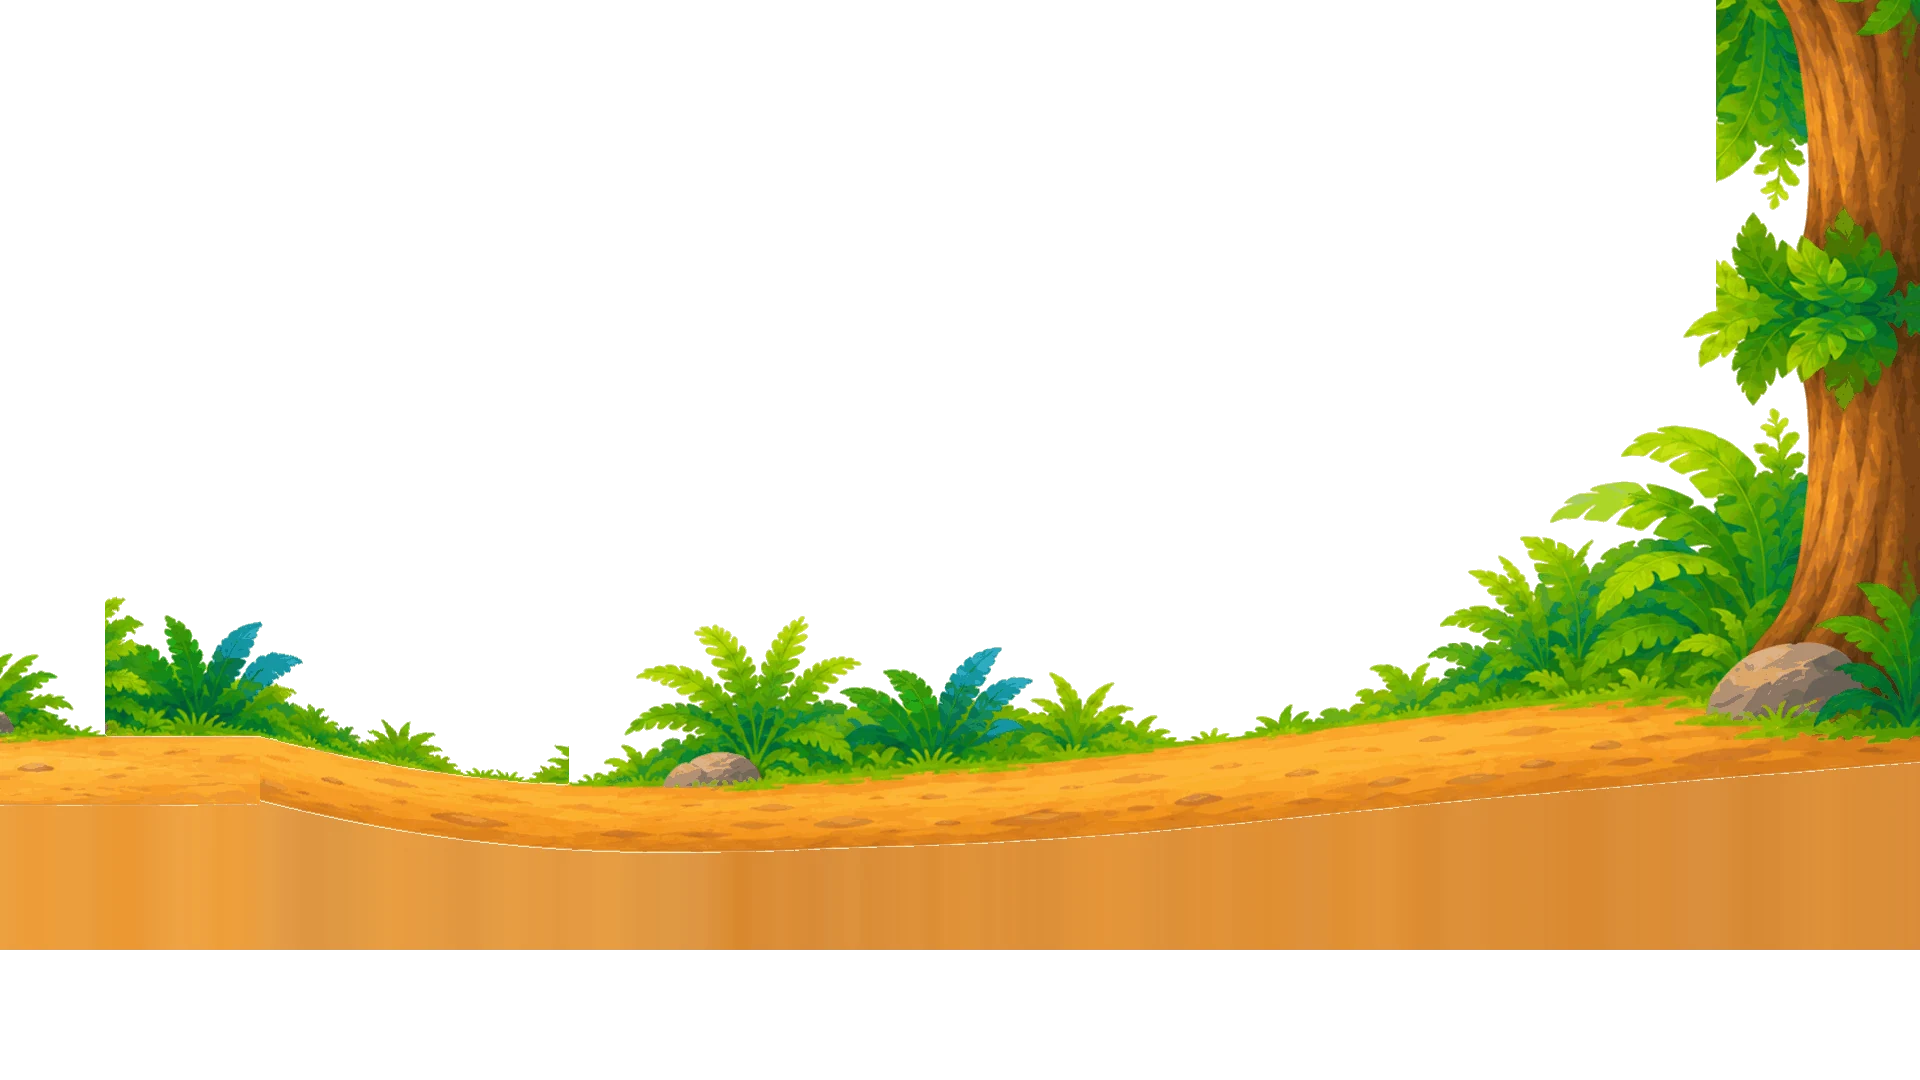
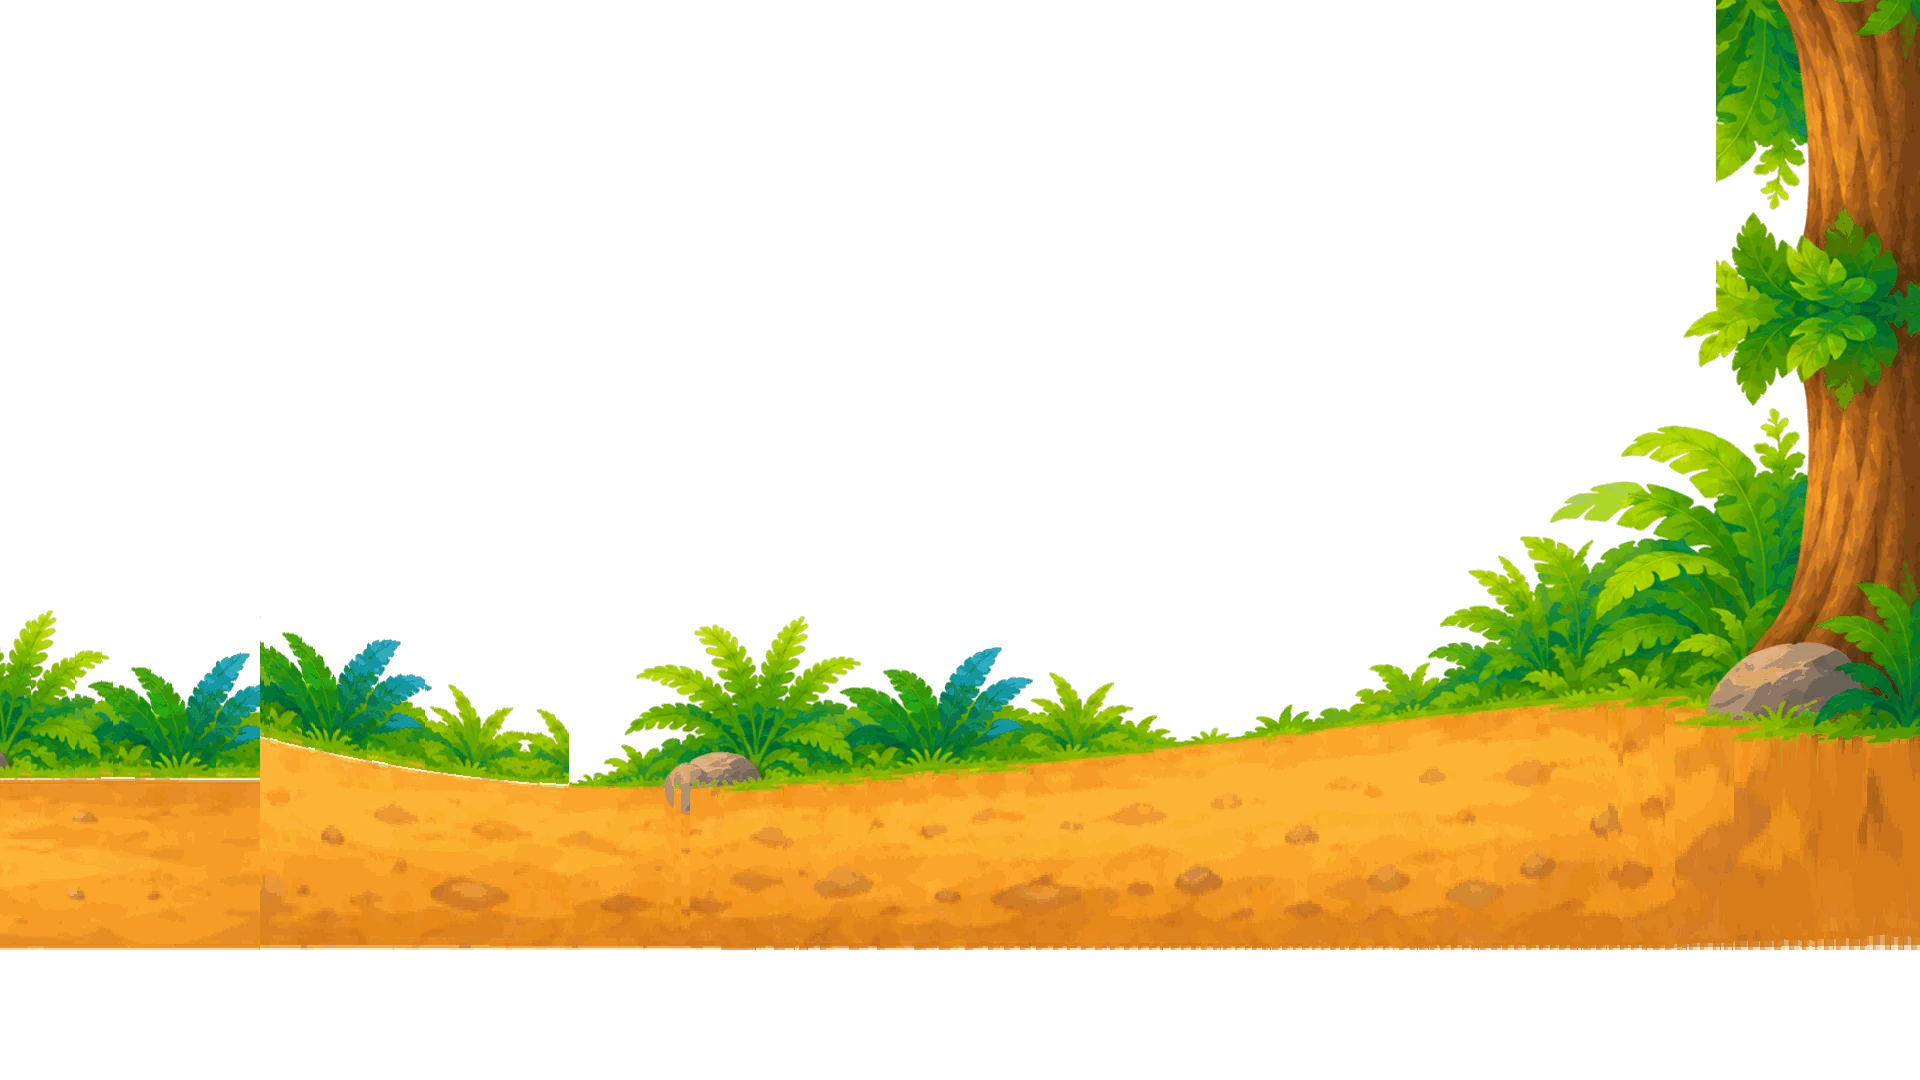
The muddy path: one plate, because the joins could not be made to flow
You were right that it still looked terrible, and the worst of it was mine.

The flat fill was the ugliest thing on screen: 16% of the frame height as dead
flat ochre with a hard top edge, under a path band only 8% tall. Three fills
were tried and all three are recorded in build_mud() because only looking at
them could separate them -- a per-column average striped the ground like a
barcode; tiling the band's own rows downward repeated the mud ellipse as dark
stripes; a smoothed average left the slab. The answer was to stop filling and
STRETCH the delivered band to the full depth. That keeps every pebble and tonal
shift, has no boundary anywhere because nothing is synthesised, and is the more
correct answer anyway: ground seen nearly edge-on IS foreshortened, so scaling
it vertically is what makes it read as receding rather than as a wall.

Then the plate count. Three plates gave two joins, and the pixel-identical
overlap bands did make the seams invisible -- they cannot make one plate's
content flow out of the other's, and each plate started its own scene the
moment its copied band ended. Measured, comparing what sits just before each
candidate join with what follows it: near->far 3.78, near->deep 26.13,
deep->far 26.55, against a within-plate variation of 7.98. So act_mud_deep was
dropped. The remaining join still showed, and with two 1920-wide plates it
cannot be hidden: at f=0 the frame already spans world 0-1920 and the join sits
[…]

Changed region(s): [[0.0, 0.55, 1.0, 0.8861]]

diff --git a/src/js/levels.js b/src/js/levels.js
@@ -16,8 +16,8 @@ const A={map:'assets/bg/map.webp',ramp:'assets/bg/ramp.webp',
          r_far:'assets/bg/act_raft_far.webp',water_far:'assets/bg/water_far.webp',
          water_near:'assets/bg/water_near.webp',near_reeds:'assets/bg/near_reeds.webp',
          bubble:'assets/chars/bubble.webp',
-         m_near:'assets/bg/act_mud_near.webp',m_deep:'assets/bg/act_mud_deep.webp',
-         m_far:'assets/bg/act_mud_far.webp',mud_near:'assets/bg/mud_near.webp',
+         m_near:'assets/bg/act_mud_near.webp',m_far:'assets/bg/act_mud_far.webp',
+         mud_near:'assets/bg/mud_near.webp',
          stone_a:'assets/chars/prop_stone_1.webp',stone_b:'assets/chars/prop_stone_2.webp',
          stone_c:'assets/chars/prop_stone_3.webp',stones_ok:'assets/chars/stones_firm.webp',
          stones_bad:'assets/chars/stones_sunk.webp',splat:'assets/chars/fx_mud_splat.webp',
@@ -160,28 +160,61 @@ const RAFT={
    88%, behind near_grass. Every number below is printed by that build step.
    ------------------------------------------------------------------------- */
 const MUD={
- seg:['m_near','m_deep','m_far'],
- /* 260 per join, and the overlap band is the SAME art on both plates -- so the join
+ /* TWO plates, not three. act_mud_deep is dropped, and that is measured rather than a
+    preference: comparing what sits just BEFORE each candidate join with what follows
+    it, near->far scores 3.78, near->deep 26.13 and deep->far 26.55. For scale, the
+    natural variation WITHIN one plate 260 columns along is 7.98 (near) and 12.26
+    (far). So near->far is smoother than either plate is with itself, and the other two
+    joins are seven times worse.
+
+    Pixel-identical overlap bands do make a seam invisible, and they did -- but they
+    cannot make one plate's content flow out of the other's, and plate 2 diverged the
+    moment its copied band ended. That was the visible defect and no amount of
+    blending fixed it. Plate 1 carries the mud, which is where he stops, so the
+    obstacle is not lost. */
+ /* ONE plate. Not a shortcut -- it is the only seamless option available with what
+    was delivered, and the reasoning is worth keeping.
+
+    Three plates gave two joins. Comparing what sits just BEFORE each candidate join
+    with what follows it: near->far scores 3.78, near->deep 26.13, deep->far 26.55,
+    against a natural within-plate variation of 7.98. So act_mud_deep was dropped and
+    near->far kept. That join still showed, because pixel-identical overlap bands make
+    a SEAM invisible but cannot make one plate's content flow out of the other's -- and
+    with two 1920-wide plates the join is on screen from the first frame, since at f=0
+    the frame already spans world 0-1920 and the join sits at 1660. No amount of
+    lapping moves it out of shot.
+
+    Plate 1 on its own is coherent: greenery across, one continuous path, the mud patch,
+    a trunk at the world edge. It carries the obstacle, which is where he stops.
+
+    The cost is real and worth stating: with one segment there is no camera travel, so
+    the parallax layers hold still and the motion in this scene is him riding in. The
+    fix that buys back both is a regeneration of plate 2 that CONTINUES plate 1 --
+    same ground height, greenery unbroken, ground body to the frame bottom -- rather
+    than starting its own scene 260 columns in. */
+ seg:['m_near'],
+ /* 260 for the one join, and the overlap band is the SAME art on both plates -- so it
     cancels rather than being covered. `nojoin` because a join trunk over a match is
     the mistake that laid a translucent tree across the river. */
- laps:[260,260],
+ laps:[],
  nojoin:1,
  /* Measured off the built plates by walking UP from the lowest warm pixel. Measuring
     down from the top finds trunk bark and greenery, which is how the rider came to
     float 83px on the bridge approach. A local median per sample, so a rock edge cannot
-    define the ground. */
+    define the ground. Do not hand-edit; re-run build_mud(). */
  prof:[
-  [75.56,73.80,72.78,72.50,72.41,72.41,72.22,71.94,71.85,72.04,71.94,72.04,71.94,72.04,72.04,72.04,72.04],
-  [72.04,72.04,72.04,70.28,68.80,68.15,68.06,68.06,68.15,68.06,68.06,67.96,68.06,68.15,68.43,68.15,68.15],
-  [68.61,68.15,68.15,70.28,71.94,72.78,72.78,72.50,71.48,70.28,68.89,67.59,66.20,65.37,66.94,68.24,68.43]
+  [75.56,73.98,73.06,73.24,72.50,72.50,72.41,72.04,71.85,71.94,71.94,71.94,72.04,71.94,72.04,72.04,72.04]
  ],
  /* How far the tyres bed in, as a percentage of HIS height. 5% is right for planks;
     mud is soft, and 11% is what puts the contact 3.5% of the frame below the surface. */
  drop:11,
- /* The mud itself, as fractions of the whole world -- measured off plate 2's alpha,
-    not taken from the brief. He stops just short of its near edge. */
- mud:[0.3664,0.6532],
- stop:0.30,
+ /* The mud, as fractions of the whole world -- measured off plate 1's alpha, which is
+    where it lives now that plate 2 is gone. He stops just short of its near edge. */
+ mud:[0.20,0.68],
+ stop:0,            /* one plate, so there is nowhere to travel to */
+ /* Where he pulls up, as a percentage of the frame -- just short of the mud's near
+    edge rather than at the usual HOLD_X, since the camera cannot bring the mud to him. */
+ hold:34,
  /* The near lip of the mud, passing IN FRONT of his wheels at 1.18. That occlusion is
     the whole scene: a wheel on a painting of mud is a sticker, a wheel with the mud's
     edge crossing it is in the mud. water_near was meant to do this for the raft and

diff --git a/src/js/scenes.js b/src/js/scenes.js
@@ -881,18 +881,30 @@ function mud(){
 
  /* Stop short of the mud's near edge, which is measured off plate 2's alpha rather
     than guessed. MUD.stop is a camera fraction. */
- const stopF=Math.min(1,MUD.stop);
+ /* One plate means no camera travel, so the whole arrival is him crossing the frame:
+    a long ride from off-screen left to MUD.hold, which is just short of the mud's near
+    edge. Slower than the usual entry, because it is carrying the motion the camera
+    would otherwise provide. */
+ const HOLD=MUD.hold===undefined?HOLD_X:MUD.hold;
+ const stopF=Math.min(1,MUD.stop||0);
 
  J.place(-12,yOf(0));
  let armed=1;
- const RIDE=RIDE_IN*1.1,RUN=LEG*1.9;
+ const RIDE=RIDE_IN*2.4,RUN=LEG*1.9;
 
- tween(RIDE,p=>J.place(-12+(HOLD_X+12)*easeRide(p),yOf(0)),()=>{
+ tween(RIDE,p=>{
+  const x=-12+(HOLD+12)*easeRide(p);
+  J.place(x,yOf(0));
+ },()=>{
+  if(stopF<=0){arrive();return}
   J.riding(1);J.show('cyc');
   tween(RUN,p=>{
    const f=stopF*easeOut(p);
-   rig.setF(f);J.place(HOLD_X,yOf(f));
-  },()=>{
+   rig.setF(f);J.place(HOLD,yOf(f));
+  },arrive);
+ });
+
+ function arrive(){
    J.show('still');J.riding(0);tone(430,.12);
    /* In on the mud, as the gorge does on the gap: this is the obstacle and it has to
       become the subject before any words arrive. Released before the card, so the
@@ -910,8 +922,7 @@ function mud(){
    },700);
    later(()=>camTo(1.15,900,54,70),300);
    beat(MUDTALK.see,tryIt,700);
-  });
- });
+ }
  fon('pointerdown',()=>{});
 }
 

diff --git a/tools/build-assets.py b/tools/build-assets.py
@@ -1076,8 +1076,18 @@ def build_font():
 # The muddy path -- hurdle three
 # ---------------------------------------------------------------------------
 MUD_SRC    = 'muddy_path_assets/muddy_path_assets'
+# TWO plates, not three. act_mud_deep is dropped, and this is measured rather than a
+# preference: comparing what sits just before each candidate join with what follows it,
+# near -> far scores 3.78 while near -> deep scores 26.13 and deep -> far 26.55. For
+# scale, the natural variation WITHIN a single plate 260 columns along is 7.98 (near)
+# and 12.26 (far). So near -> far is smoother than either plate is with itself, and the
+# other two joins are seven times worse.
+#
+# The overlap band being pixel-identical makes a seam invisible, which it did -- but it
+# cannot make plate 2's content flow out of plate 1's, and plate 2 diverged the moment
+# its copied band ended. That was the visible defect, and no amount of blending fixed
+# it. Plate 1 carries the mud, which is where he stops, so nothing is lost.
 MUD_PLATES = [('act_mud_near.png', 'act_mud_near.webp'),
-              ('act_mud_deep.png', 'act_mud_deep.webp'),
               ('act_mud_far.png',  'act_mud_far.webp')]
 MUD_LAP    = 260      # design units of overlap per join, per docs/18
 MUD_TARGET = 72.0     # where plate 1's surface must land: act_raft_far's path height
@@ -1146,10 +1156,15 @@ def _mud_greenery(plates, lap):
             out.append((s, len(cols) - 1))
         return out
 
-    # the donor: a stretch of plate 2 that has real bushes on it
-    src = plates[1]
-    stop = tops[1]
-    donor = [x for x in range(300, 690) if stop[x] >= 0]
+    # The donor: whichever plate has the most greenery, sampled from a stretch of it
+    # that really has bushes. It was plate 2 until plate 2 was dropped.
+    green = [((a[..., 3] > 128) & (a[..., 1] > a[..., 0] + 15)).sum() for a in plates]
+    di = int(np.argmax(green))
+    src = plates[di]
+    stop = tops[di]
+    cols = ((src[..., 3] > 128) & (src[..., 1] > src[..., 0] + 15)).any(0)
+    donor = [x for x in range(len(cols)) if cols[x] and stop[x] >= 0]
+    donor = donor[len(donor) // 6: len(donor) // 6 + 420] or donor
 
     def paint(dst, di, x0, x1):
         """Copy greenery into dst columns x0..x1, aligned to each column's surface."""
@@ -1170,15 +1185,15 @@ def _mud_greenery(plates, lap):
 
     for i, a in enumerate(plates):
         for x0, x1 in bald(a):
-            if i == 1 and x0 == 0:
-                continue                        # the copied band; handled below
+            if i > 0 and x0 == 0:
+                continue                        # a copied band; restored below
             paint(a, i, x0, x1)
 
     # restore the overlap identity: whatever plate 1 now has in its right band IS the
     # band, so copy it verbatim into plate 2's left band, and likewise 2 -> 3
     W = plates[0].shape[1]
-    plates[1][:, :lap] = plates[0][:, W - lap:]
-    plates[2][:, :lap] = plates[1][:, W - lap:]
+    for i in range(1, len(plates)):
+        plates[i][:, :lap] = plates[i - 1][:, W - lap:]
     return plates
 
 
@@ -1221,7 +1236,7 @@ def build_mud():
     lap = round(MUD_LAP * W / 1920)
 
     # ---- 1. de-step, plates 2 and 3 -----------------------------------------
-    for i in (1, 2):
+    for i in range(1, len(plates)):
         a = plates[i]
         top, _ = _mud_surface(a)
         step = int(top[lap] - top[lap - 1])      # + means its own ground sits lower
@@ -1258,42 +1273,36 @@ def build_mud():
           % (100 * ref / H, MUD_TARGET, shift, MUD_FLOOR))
 
     for i, a in enumerate(plates):
-        _, bot = _mud_surface(a)
+        top, bot = _mud_surface(a)
         out = np.zeros_like(a)
         out[shift:, :] = a[:H - shift, :]
-        # Flat colour per column, SMOOTHED along x. Three approaches were tried and
-        # this is the one that survives looking at it:
-        #   per-column average alone striped the body like a barcode, because
-        #     neighbouring columns each picked their own mean;
-        #   tiling the band's own bottom rows downward removed every boundary but
-        #     repeated the MUD ellipse as dark stripes all the way down, since the mud
-        #     is part of what those rows contain;
-        #   a smoothed average leaves only a faint tonal ledge where two plates start
-        #     their fill at different heights, below the path and largely under
-        #     near_grass, which is the mildest of the three.
-        col = np.zeros((W, 4))
-        have = np.zeros(W, bool)
+        # STRETCH the delivered band to fill the full depth, rather than filling
+        # below it. Three fills were tried first and all three looked wrong: a
+        # per-column average striped the body like a barcode; tiling the band's own
+        # rows downward repeated the mud ellipse as dark stripes; a smoothed average
+        # left 16% of the frame height as dead flat ochre with a hard top edge, which
+        # was the single ugliest thing on screen.
+        #
+        # Stretching has none of those problems and is also the more correct answer:
+        # ground seen nearly edge-on IS foreshortened, so scaling the band vertically
+        # is what makes it read as receding rather than as a wall. Every pebble, tonal
+        # shift and patch of mud in the delivered art survives, and there is no
+        # boundary anywhere because nothing is synthesised.
         for x in range(W):
-            if bot[x] < 0:
+            if bot[x] < 0 or top[x] < 0:
                 continue
-            band = out[max(0, bot[x] + shift - 5):bot[x] + shift + 1, x]
-            band = band[band[:, 3] > 128]
-            if len(band):
-                col[x] = band.mean(0); have[x] = True
-        if have.any():
-            idx = np.where(have)[0]
-            for k in range(4):
-                col[:, k] = np.interp(np.arange(W), idx, col[idx, k])
-            K = 41
-            pad = np.pad(col, ((K // 2, K // 2), (0, 0)), mode='edge')
-            col = np.stack([np.convolve(pad[:, k], np.ones(K) / K, 'valid')
-                            for k in range(4)], 1)
-            for x in range(W):
-                if not have[x]:
-                    continue
-                y0 = bot[x] + shift + 1
-                if y0 < floor:
-                    out[y0:floor, x] = col[x].round().astype(int)
+            y0, y1 = top[x] + shift, bot[x] + shift          # the band, once shifted
+            if y1 <= y0 or y0 >= floor:
+                continue
+            band = out[y0:y1 + 1, x].astype(float)   # NOT `src` -- that is the pack dir
+            h = floor - y0
+            if h < 2:
+                continue
+            # nearest-neighbour along the column: the band is a soft texture, and
+            # interpolating would smear the pebbles into vertical streaks
+            idx = (np.arange(h) * (len(band) - 1) / (h - 1)).round().astype(int)
+            out[y0:floor, x] = band[idx].round().astype(int)
+
         # ---- 4. edge trunks back up to the top of the frame ------------------
         had_top = a[0, :, 3] > 128               # only columns that carried a trunk
         for x in np.where(had_top)[0]:
@@ -1315,7 +1324,7 @@ def build_mud():
         print('mud   %-20s (%d, %d) %.0fKB'
               % (dst, a.shape[1], a.shape[0], p.stat().st_size / 1024))
 
-    world = 3 * W - 2 * lap
+    world = len(plates) * W - (len(plates) - 1) * lap
     line = np.full(world, np.nan)
     for i, a in enumerate(plates):
         top, _ = _mud_surface(a)
@@ -1328,7 +1337,8 @@ def build_mud():
     # define the ground -- it reported 86.8% once, which is the trunk, not the path
     flat = [round(float(np.nanmedian(line[max(0, k - 60):k + 61])), 2)
             for k in range(0, world, stepn)]
-    print('       RUNTIME  laps [%d,%d]   world %.2f frames' % (MUD_LAP, MUD_LAP, world / W))
+    print('       RUNTIME  laps %s   world %.2f frames'
+          % (str([MUD_LAP] * (len(plates) - 1)), world / W))
     print('       MUD.prof (%d samples, %.1f%%-%.1f%%):' % (len(flat), min(flat), max(flat)))
     print('         ' + str(flat))
 

diff --git a/docs/18-muddy-path-assets.md b/docs/18-muddy-path-assets.md
@@ -124,6 +124,27 @@ Overlap per join        260 design units
 Plate world positions   plate 1 at 0,  plate 2 at 1920-260,  plate 3 at 2*(1920-260)
 ```
 
+> **This rule was not enough, and here is what the delivery proved.** The bands came
+> back pixel-identical -- 0.00 mean difference -- and the seam really was invisible. But
+> each plate then started its OWN scene the moment its copied band ended: a different
+> ground height (a 41px and a 52px ledge at exactly x=259), greenery that stopped in one
+> plate and restarted as a wall in the next, and content 260 columns in that bore no
+> relation to what came before. An invisible seam between two unrelated pictures is
+> still two unrelated pictures.
+>
+> Measured, comparing what sits just before each candidate join with what follows it:
+> near->far scored 3.78, near->deep 26.13, deep->far 26.55 -- against a natural
+> within-plate variation of 7.98. Two of the three joins were seven times worse than a
+> plate is with itself. In the end only ONE plate could be used, which costs the scene
+> its camera travel.
+>
+> **So there is a third instruction, and it matters more than the other two:** each
+> plate must CONTINUE the previous one -- same ground height where they meet, greenery
+> unbroken across the boundary, the same scenery vocabulary either side. The overlap
+> band guarantees the seam; only continuity guarantees the picture. Ask for the plates
+> as one long drawing cut into pieces, never as three drawings that happen to share a
+> strip.
+
 Two instructions, and they are the difference between a seam and no seam:
 
 1. **The overlap band is the same drawing on both plates.** Plate 2's leftmost 260
